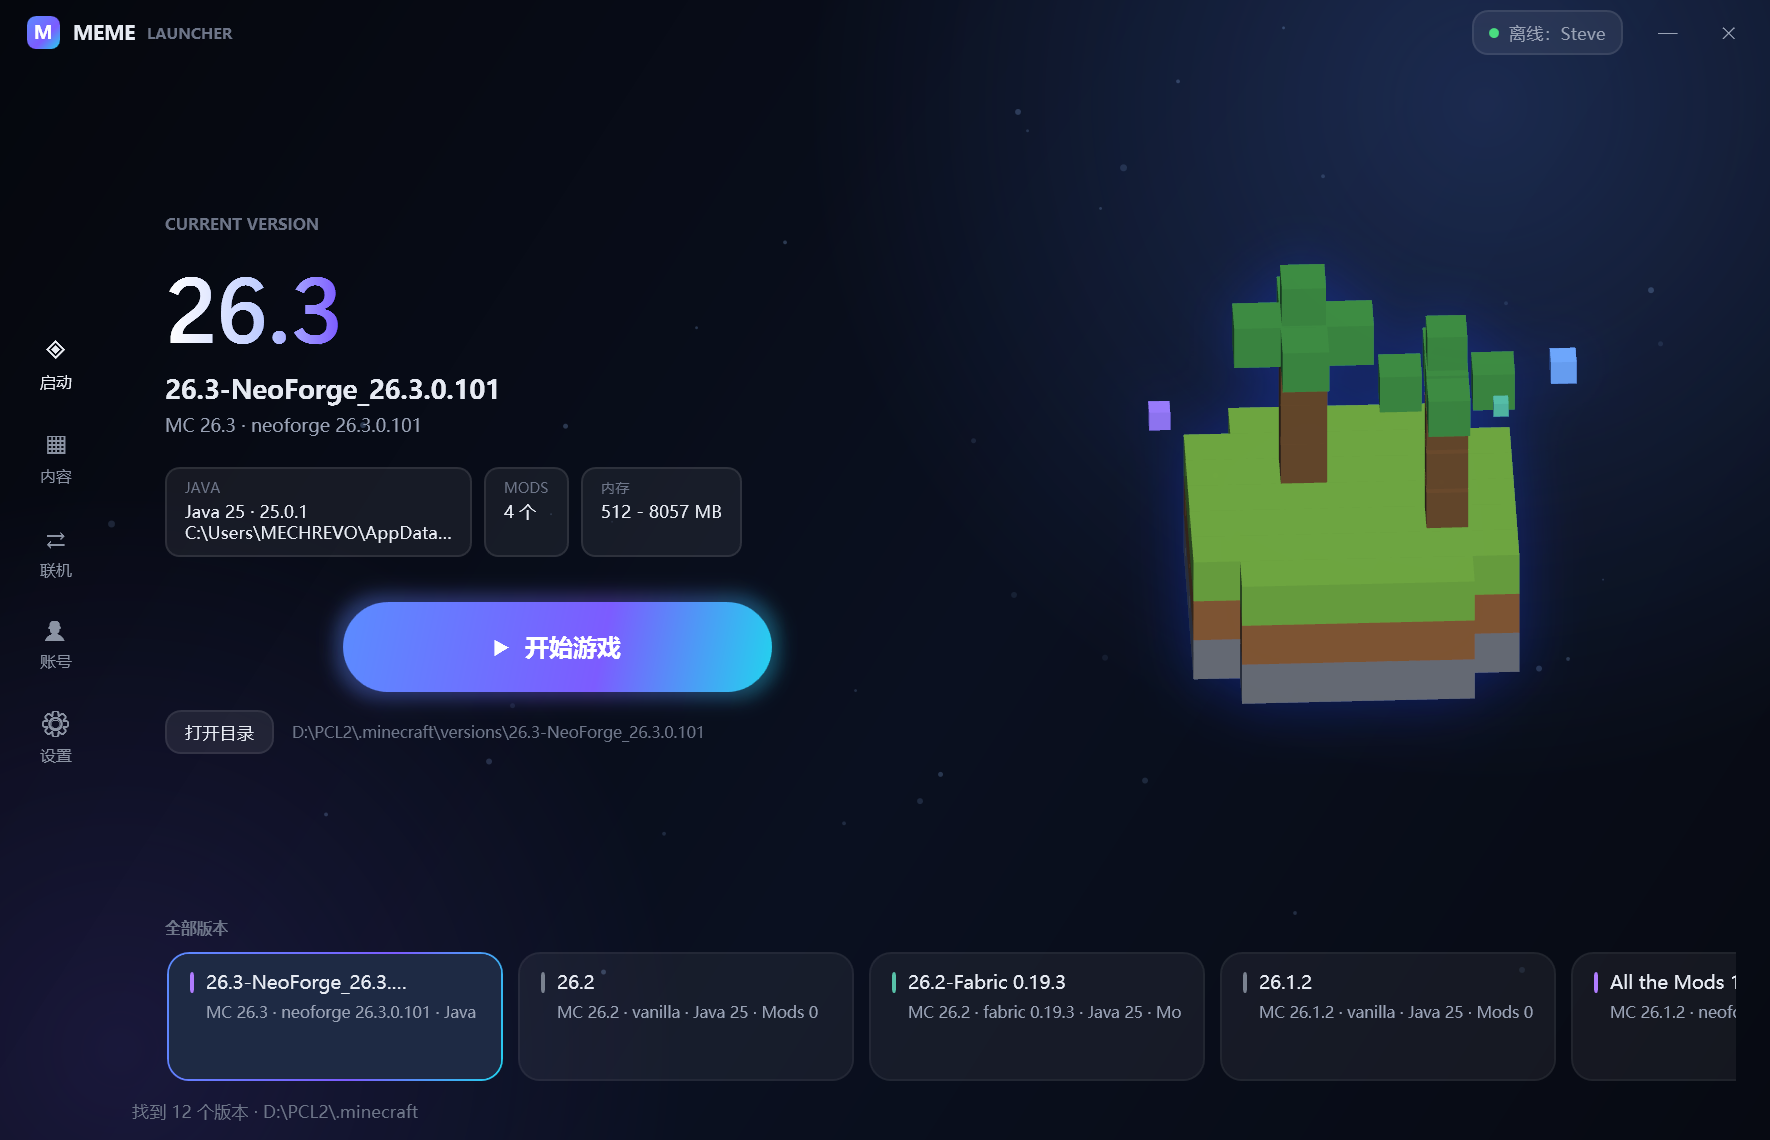
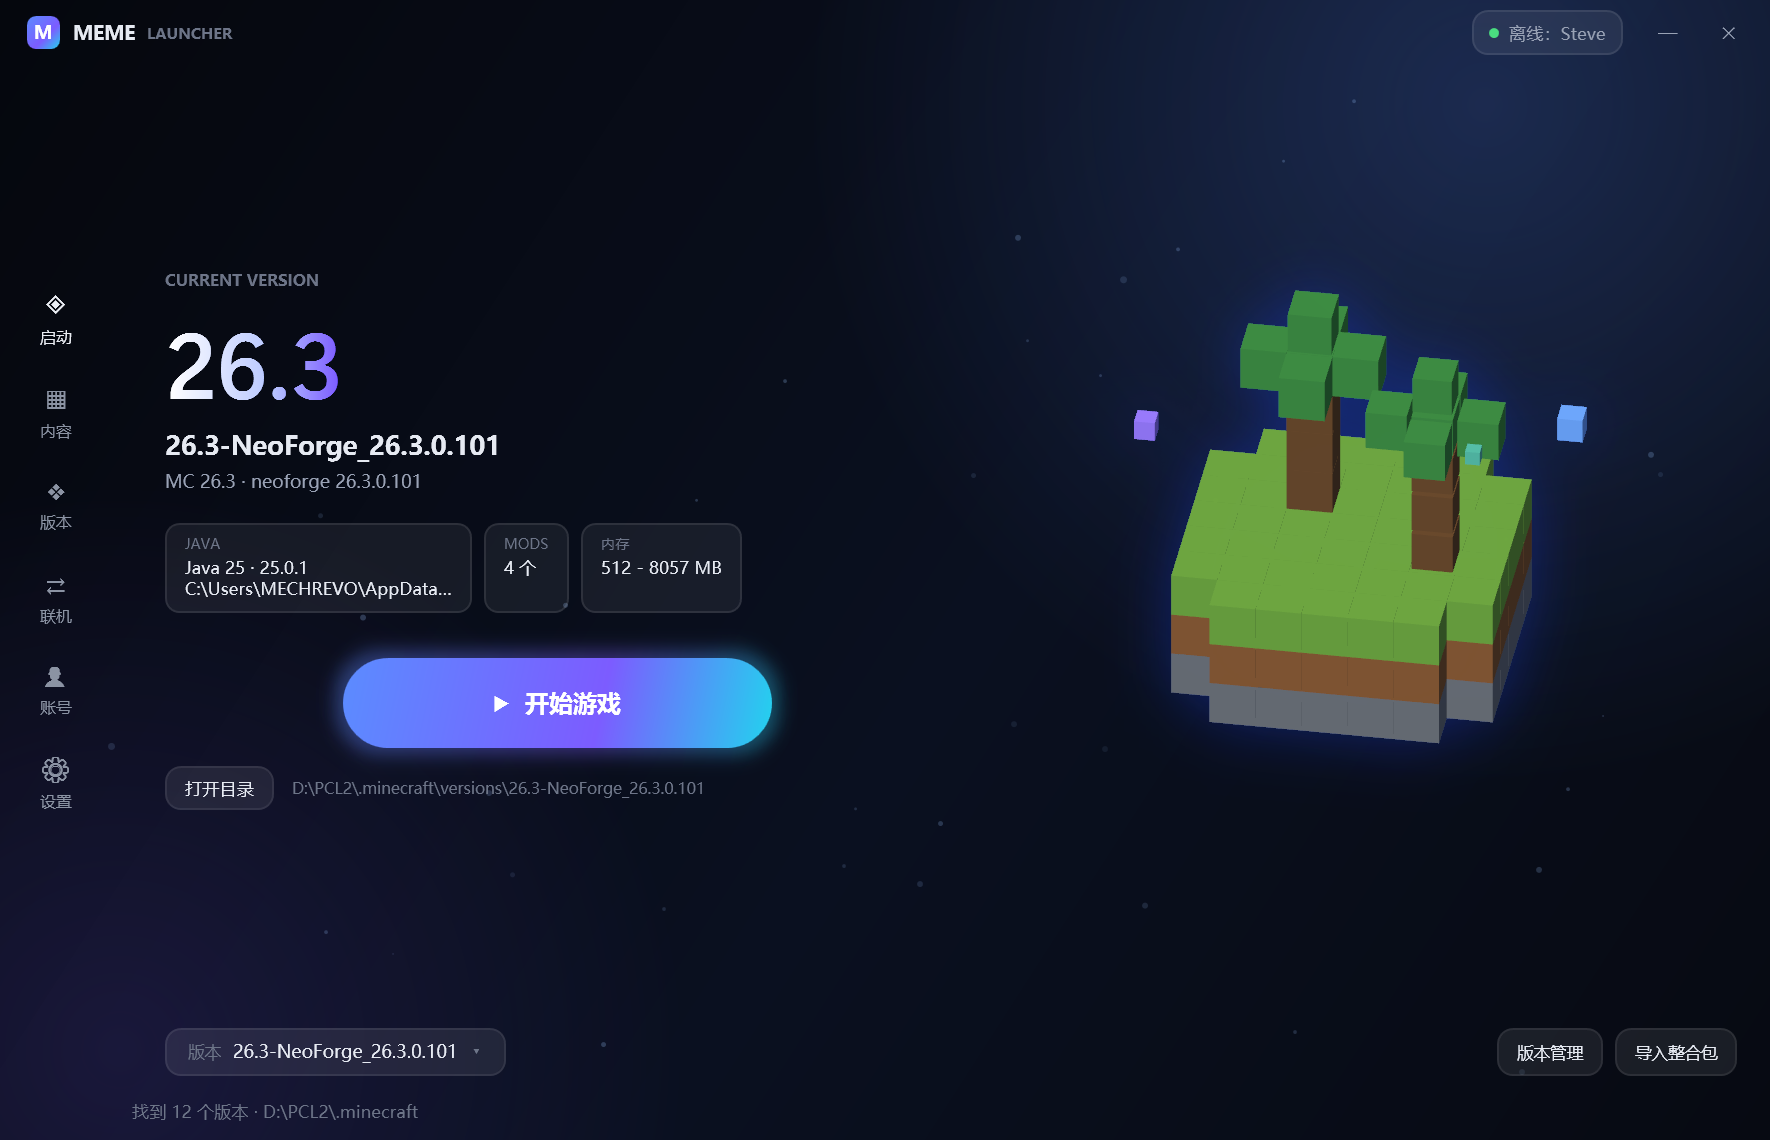
feat: 首页版本列表收成单按钮+选择器（记住上次版本）；版本页可设为安装目标

diff --git a/src/Aurora.App/MainWindow.xaml b/src/Aurora.App/MainWindow.xaml
@@ -557,9 +557,19 @@
 
                         <!-- 版本轮播 -->
                         <StackPanel Grid.Row="2" Margin="26,0,0,6">
-                            <Grid Margin="0,0,0,8">
-                                <TextBlock Text="全部版本" FontSize="10.5" Foreground="{StaticResource InkFaint}"
-                                           FontWeight="SemiBold" VerticalAlignment="Center"/>
+                            <Grid Margin="0,0,0,4">
+                                <Button x:Name="VersionPickerButton" HorizontalAlignment="Left"
+                                        Style="{StaticResource GlassButton}" Padding="14,7" Click="OnPickVersion">
+                                    <StackPanel Orientation="Horizontal">
+                                        <TextBlock Text="版本" FontSize="11" Foreground="{StaticResource InkFaint}"
+                                                   VerticalAlignment="Center" Margin="0,0,8,0"/>
+                                        <TextBlock x:Name="VersionPickerText" Text="未选择" FontSize="12"
+                                                   Foreground="{StaticResource Ink}" VerticalAlignment="Center"
+                                                   MaxWidth="360" TextTrimming="CharacterEllipsis"/>
+                                        <TextBlock Text="▾" FontSize="10" Foreground="{StaticResource InkFaint}"
+                                                   VerticalAlignment="Center" Margin="8,0,0,0"/>
+                                    </StackPanel>
+                                </Button>
                                 <StackPanel Orientation="Horizontal" HorizontalAlignment="Right">
                                     <Button Content="版本管理" Style="{StaticResource GlassButton}" Padding="12,4" FontSize="11"
                                             Click="OnOpenVersionManager"/>
@@ -567,7 +577,8 @@
                                             Margin="8,0,0,0" Click="OnImportPackHome"/>
                                 </StackPanel>
                             </Grid>
-                            <ListBox x:Name="VersionList" Background="Transparent" BorderThickness="0" Height="88" PreviewMouseWheel="OnVersionWheel"
+                            <ListBox x:Name="VersionList" Background="Transparent" BorderThickness="0" Height="0" Visibility="Collapsed"
+                                     PreviewMouseWheel="OnVersionWheel"
                                      ItemContainerStyle="{StaticResource VersionTile}"
                                      ScrollViewer.HorizontalScrollBarVisibility="Hidden"
                                      ScrollViewer.VerticalScrollBarVisibility="Disabled"
@@ -974,6 +985,8 @@
                                                         Click="OnVmSaveMemory"/>
                                                 <Button Content="打开版本目录" Style="{StaticResource GlassButton}" Margin="8,0,0,0"
                                                         Click="OnVmOpenVersionDir"/>
+                                                <Button Content="设为安装目标" Style="{StaticResource GlassButton}" Margin="8,0,0,0"
+                                                        Click="OnVmSetAsTarget"/>
                                             </StackPanel>
 
                                             <WrapPanel Margin="0,12,0,0">

diff --git a/src/Aurora.App/MainWindow.xaml.cs b/src/Aurora.App/MainWindow.xaml.cs
@@ -31,7 +31,7 @@ public partial class MainWindow : Window
     private List<RemoteVersion> _mcVersions = new();
     private ContentItem? _selectedContent;
     private CancellationTokenSource? _loginCts;
-    private const string AppVersion = "0.9.2";
+    private const string AppVersion = "0.9.3";
     private bool _updatesLoaded;
     private ReleaseInfo? _pendingRelease;
     private readonly SakuraFrp _tunnel = new();
@@ -193,7 +193,9 @@ public partial class MainWindow : Window
             VersionList.ItemsSource = cards;
             if (cards.Count > 0)
             {
-                VersionList.SelectedIndex = 0;
+                var saved = cards.FirstOrDefault(c =>
+                    string.Equals(c.Summary.Id, _settings.SelectedVersionId, StringComparison.OrdinalIgnoreCase));
+                VersionList.SelectedItem = saved ?? cards[0];
                 StatusText.Text = $"找到 {cards.Count} 个版本 · {_settings.GameDirectory}";
             }
             else
@@ -216,6 +218,13 @@ public partial class MainWindow : Window
 
     private void OnVersionSelected(object sender, SelectionChangedEventArgs e)
     {
+        if (VersionList.SelectedItem is VersionCard selected)
+        {
+            _settings.SelectedVersionId = selected.Summary.Id;
+            ConfigStore.Save(_settings);
+        }
+
+        UpdateVersionPicker();
         if (VersionList.SelectedItem is not VersionCard card)
         {
             return;
@@ -1147,6 +1156,30 @@ public partial class MainWindow : Window
         _settings.MaxMemoryMb = memory;
         ConfigStore.Save(_settings);
         VmStatus.Text = "内存已设为 " + memory + " MB";
+    }
+
+    private void OnVmSetAsTarget(object sender, RoutedEventArgs e)
+    {
+        if (_vmCurrent == null)
+        {
+            return;
+        }
+
+        if (VersionList.ItemsSource is IEnumerable<VersionCard> cards)
+        {
+            var target = cards.FirstOrDefault(c =>
+                string.Equals(c.Summary.Id, _vmCurrent.Id, StringComparison.OrdinalIgnoreCase));
+            if (target != null)
+            {
+                VersionList.SelectedItem = target;
+                VmStatus.Text = "已设为安装目标：" + _vmCurrent.Id;
+                return;
+            }
+        }
+
+        _settings.SelectedVersionId = _vmCurrent.Id;
+        ConfigStore.Save(_settings);
+        VmStatus.Text = "已记住这个版本为安装目标（启动页列表里还没刷新）";
     }
 
     private void OnVmOpenVersionDir(object sender, RoutedEventArgs e)
@@ -3504,6 +3537,93 @@ public partial class MainWindow : Window
     }
 
     /// <summary>版本轮播用滚轮横向滚动（横向滚动条已经藏起来了）。</summary>
+    private void UpdateVersionPicker()
+    {
+        if (VersionPickerText == null)
+        {
+            return;
+        }
+
+        VersionPickerText.Text = VersionList.SelectedItem is VersionCard card
+            ? $"{card.Summary.Id}"
+            : "未选择";
+    }
+
+    private void OnPickVersion(object sender, RoutedEventArgs e)
+    {
+        if (VersionList.ItemsSource is not IEnumerable<VersionCard> cards)
+        {
+            return;
+        }
+
+        var list = cards.ToList();
+        if (list.Count == 0)
+        {
+            SetStatus("还没有可用版本，先去「内容 → 安装版本」装一个");
+            return;
+        }
+
+        var panel = new StackPanel { Margin = new Thickness(20) };
+        var box = new ListBox
+        {
+            Height = 320,
+            Background = new SolidColorBrush(Color.FromRgb(0x0B, 0x0E, 0x13)),
+            BorderThickness = new Thickness(0),
+            Foreground = (Brush)FindResource("Ink"),
+            ItemsSource = list.Select(c => c.Summary.Id).ToList(),
+        };
+
+        box.SelectedItem = (VersionList.SelectedItem as VersionCard)?.Summary.Id;
+        panel.Children.Add(box);
+
+        var buttons = new StackPanel
+        {
+            Orientation = Orientation.Horizontal,
+            HorizontalAlignment = HorizontalAlignment.Right,
+            Margin = new Thickness(0, 14, 0, 0),
+        };
+        var ok = new Button { Content = "用这个版本", Style = (Style)FindResource("HeroButton"), Width = 130, Height = 36 };
+        var cancel = new Button
+        {
+            Content = "取消",
+            Style = (Style)FindResource("GlassButton"),
+            Width = 80,
+            Margin = new Thickness(8, 0, 0, 0),
+        };
+        buttons.Children.Add(ok);
+        buttons.Children.Add(cancel);
+        panel.Children.Add(buttons);
+
+        var window = new Window
+        {
+            Owner = this,
+            Title = "选择版本",
+            Width = 460,
+            SizeToContent = SizeToContent.Height,
+            ResizeMode = ResizeMode.NoResize,
+            WindowStartupLocation = WindowStartupLocation.CenterOwner,
+            Background = (Brush)FindResource("Bg"),
+            Content = panel,
+        };
+
+        ok.Click += (_, __) =>
+        {
+            if (box.SelectedItem is string id)
+            {
+                var target = list.FirstOrDefault(c => c.Summary.Id == id);
+                if (target != null)
+                {
+                    VersionList.SelectedItem = target;
+                }
+            }
+
+            window.Close();
+        };
+        cancel.Click += (_, __) => window.Close();
+
+        window.ShowDialog();
+    }
+
     private void OnVersionWheel(object sender, MouseWheelEventArgs e)
     {
         var viewer = FindScrollViewer(VersionList);

diff --git a/src/Aurora.Core/Configuration/LauncherSettings.cs b/src/Aurora.Core/Configuration/LauncherSettings.cs
@@ -49,6 +49,9 @@ public sealed class LauncherSettings
 
     public string YggdrasilName { get; set; } = string.Empty;
 
+    /// <summary>当前选中的版本 id（安装 mod 的目标）。</summary>
+    public string SelectedVersionId { get; set; } = string.Empty;
+
     /// <summary>用过的游戏目录（版本管理页的文件夹下拉）。</summary>
     public List<string> KnownGameDirs { get; set; } = new();
 
